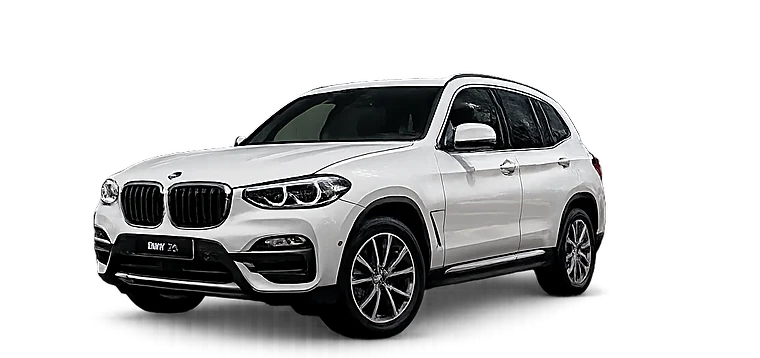
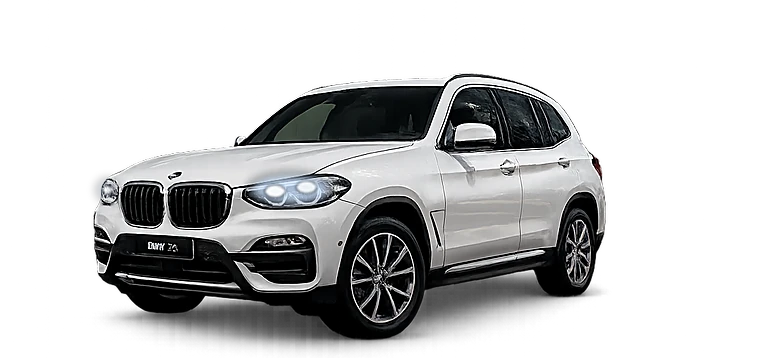
Faros encendidos, hero más premium, precio real y copy de modos más clara
- Faros con brillo azul-blanco (efecto encendido) añadido sobre el
  recorte real del auto, en las posiciones exactas de cada óptica.
- Hero de escritorio: auto más grande (65%), reposicionado y con
  sombra de contacto propia (radial-gradient) para que se vea apoyado
  en el asfalto en vez de flotando — ajustado para no tapar las cifras
  del statcard.
- La nota "Es un motor a gasolina, no un híbrido" y los chips de Eco
  Pro ahora solo se muestran en modo ECO PRO (antes quedaban visibles
  al cambiar a Comfort o Sport).
- Precio: "Consultar" → "$110.000.000 COP" en azul, como el resto de
  cifras destacadas de la ficha técnica.
- Se reescriben las tres descripciones de modos de manejo (Comfort,
  Sport, Eco Pro) con lenguaje más claro y directo, y se elimina la
  palabra "protagonista" en todo el sitio.

Changed region(s): [[0.3026, 0.4609, 0.4539, 0.5838], [0.1211, 0.4916, 0.1513, 0.5838]]

diff --git a/index.html b/index.html
@@ -183,17 +183,29 @@
   .hero-car {
     position: absolute;
     z-index: 1;
-    right: 2%;
-    bottom: 21%;
-    width: min(62%, 920px);
+    right: 0.5%;
+    bottom: 20%;
+    width: min(65%, 970px);
     height: auto;
-    filter: drop-shadow(0 34px 26px rgba(0,0,0,.5)) drop-shadow(0 8px 8px rgba(0,0,0,.4));
+    filter: drop-shadow(0 40px 30px rgba(0,0,0,.5)) drop-shadow(0 10px 10px rgba(0,0,0,.4));
     animation: carIn 1.3s cubic-bezier(.2,.6,.2,1) .45s both;
     pointer-events: none;
   }
   @keyframes carIn {
     from { opacity: 0; transform: translateX(5%); }
     to   { opacity: 1; transform: none; }
+  }
+  .hero-car-shadow {
+    position: absolute;
+    z-index: 1;
+    right: 4.5%;
+    bottom: calc(20% - 1.5%);
+    width: min(50%, 740px);
+    height: 4.5%;
+    min-height: 20px;
+    background: radial-gradient(50% 100% at 50% 50%, rgba(0,0,0,.55) 0%, rgba(0,0,0,.28) 45%, rgba(0,0,0,0) 75%);
+    animation: carIn 1.3s cubic-bezier(.2,.6,.2,1) .45s both;
+    pointer-events: none;
   }
   .hero-dots {
     position: absolute;
@@ -488,6 +500,11 @@
   .eco-note {
     margin: clamp(2rem, 4vw, 2.8rem) auto 0;
     text-align: center; font-size: .85rem; color: var(--muted); max-width: 640px;
+    max-height: 100px; opacity: 1;
+    transition: opacity .35s ease, max-height .45s ease, margin-top .45s ease;
+  }
+  .eco-note.is-hidden {
+    opacity: 0; max-height: 0; margin-top: 0; overflow: hidden; pointer-events: none;
   }
 
   /* ---------- Modos de manejo (cluster interactivo estilo BMW) ---------- */
@@ -917,6 +934,7 @@
     }
     .hero-bg { background-position: 62% 100%; }
     .hero-dots { display: none; }
+    .hero-car-shadow { display: none; }
     .hero-content { height: auto; padding: 1.7rem 1.15rem 1.15rem; }
     .hero-title { margin: 0; padding-left: 0; max-width: none; }
     .hero-eyebrow { font-size: .6rem; letter-spacing: .18em; margin-bottom: .9rem; }
@@ -1099,6 +1117,7 @@
         <a class="btn btn-ghost" href="#galeria">Ver galería</a>
       </div>
     </div>
+    <div class="hero-car-shadow" aria-hidden="true"></div>
     <img class="hero-car" src="img/hero-car.webp" srcset="img/hero-car-sm.webp 760w, img/hero-car.webp 1500w" sizes="(max-width: 760px) 170vw, 62vw" alt="BMW X3 xDrive30i blanca, vista frontal tres cuartos" fetchpriority="high">
     <div class="hero-bottombar">
       <div class="hero-statcard">
@@ -1193,7 +1212,7 @@
     <div class="eco-lead reveal">
       <p class="eyebrow">Driving Experience Control · Eficiencia</p>
       <h2>Tres modos de manejo.<br><em>Uno que te ahorra gasolina.</em></h2>
-      <p>Motor 2.0L TwinPower Turbo de 252 hp con automática Steptronic de 8 velocidades. El selector de modos cambia su carácter: Comfort, Sport… y el protagonista, ECO PRO, con coasting y hasta 540 km por tanqueada. Toca cada modo.</p>
+      <p>Motor 2.0L TwinPower Turbo de 252 hp con automática Steptronic de 8 velocidades. El selector de modos cambia su carácter: Comfort, Sport y ECO PRO, con coasting y hasta 540 km por tanqueada. Toca cada modo.</p>
     </div>
 
     <div class="eco-cluster reveal" id="modeCluster">
@@ -1251,7 +1270,7 @@
         </div>
       </div>
 
-      <p class="mode-desc" id="modeDesc">El protagonista: suelta el acelerador y el carro planea en coasting, gastando lo mínimo. Hasta 20% menos consumo y unos 540 km por tanqueada.</p>
+      <p class="mode-desc" id="modeDesc">Prioriza el ahorro: el acelerador responde más suave y, al soltarlo, el carro aprovecha el impulso para rodar sin gastar combustible (coasting). Así rinde hasta 20% más y llega a unos 540 km por tanqueada.</p>
 
       <div class="eco-chips" id="ecoChips">
         <div class="chip"><b>Hasta 20%</b><span>Menos consumo en ECO PRO</span></div>
@@ -1260,7 +1279,7 @@
       </div>
     </div>
 
-    <p class="eco-note reveal">Es un motor a gasolina, no un híbrido — las cifras del tablero son ilustrativas. El consumo real depende de cómo manejes, pero la idea siempre es la misma: gastar menos.</p>
+    <p class="eco-note reveal" id="ecoNote">Es un motor a gasolina, no un híbrido — las cifras del tablero son ilustrativas. El consumo real depende de cómo manejes, pero la idea siempre es la misma: gastar menos.</p>
   </div>
 </section>
 
@@ -1283,7 +1302,7 @@
         <tr><th scope="row">0–100 km/h</th><td>6,3 segundos</td></tr>
         <tr><th scope="row">Color exterior</th><td>Blanco alpino</td></tr>
         <tr><th scope="row">Interior</th><td>Cuero negro con molduras en madera</td></tr>
-        <tr><th scope="row">Precio</th><td>Consultar</td></tr>
+        <tr><th scope="row">Precio</th><td class="hl">$110.000.000 COP</td></tr>
         <tr><th scope="row">Ubicación</th><td>Bogotá D.C., Colombia</td></tr>
       </tbody>
     </table>
@@ -1450,21 +1469,21 @@
         g1: { v: 55, d: 0, arc: 41.3, unit: "% respuesta", label: "Acelerador y motor" },
         g2: { v: 2.4, d: 1, arc: 25.7, unit: "x1000 rpm", label: "Cambio de marcha" },
         bars: [45, 40], barLabels: ["Acelerador", "Dirección"],
-        desc: "El modo de todos los días: dirección ligera, cambios suaves y andar sereno. La X3 se encarga del trajín y tú llegas descansado."
+        desc: "Para el día a día: dirección liviana, cambios discretos y una marcha tranquila que no cansa en el tráfico ni en viajes largos."
       },
       sport: {
         color: "#e7222d", glow: "rgba(231,34,45,.55)", label: "SPORT",
         g1: { v: 92, d: 0, arc: 69, unit: "% respuesta", label: "Acelerador y motor" },
         g2: { v: 4.8, d: 1, arc: 51.4, unit: "x1000 rpm", label: "Cambio de marcha" },
         bars: [90, 85], barLabels: ["Acelerador", "Dirección"],
-        desc: "El acelerador responde al instante, los cambios suben de vueltas y la dirección se siente más firme. Los 252 hp, listos cuando el camino invita."
+        desc: "El acelerador responde de inmediato, la caja retiene más las marchas y la dirección pesa un poco más — para sentir los 252 hp cuando el camino lo pide."
       },
       eco: {
         color: "#3db6ed", glow: "rgba(61,182,237,.55)", label: "ECO PRO",
         g1: { v: 6.8, d: 1, arc: 34, unit: "L / 100 km", label: "Consumo medio" },
         g2: { v: 540, d: 0, arc: 58, unit: "km de autonomía", label: "Alcance estimado" },
         bars: [16, 82], barLabels: ["Acelerador", "Coasting"],
-        desc: "El protagonista: suelta el acelerador y el carro planea en coasting, gastando lo mínimo. Hasta 20% menos consumo y unos 540 km por tanqueada."
+        desc: "Prioriza el ahorro: el acelerador responde más suave y, al soltarlo, el carro aprovecha el impulso para rodar sin gastar combustible (coasting). Así rinde hasta 20% más y llega a unos 540 km por tanqueada."
       }
     };
     const gaugeResp = document.getElementById("gaugeResp");
@@ -1484,6 +1503,7 @@
     const tabs = Array.from(modesSection.querySelectorAll(".mode-tab"));
 
     const ecoChips = document.getElementById("ecoChips");
+    const ecoNote = document.getElementById("ecoNote");
 
     const tween = (el, from, to, decimals) => {
       if (reduceMotion) { el.textContent = to.toFixed(decimals).replace(".", ","); return; }
@@ -1540,6 +1560,7 @@
       modeDesc.textContent = m.desc;
       modeStatus.textContent = m.label + " · Activo";
       ecoChips.classList.toggle("is-hidden", name !== "eco");
+      ecoNote.classList.toggle("is-hidden", name !== "eco");
       tabs.forEach(b => b.classList.toggle("active", b.dataset.mode === name));
     };
     tabs.forEach(b => b.addEventListener("click", () => setMode(b.dataset.mode)));